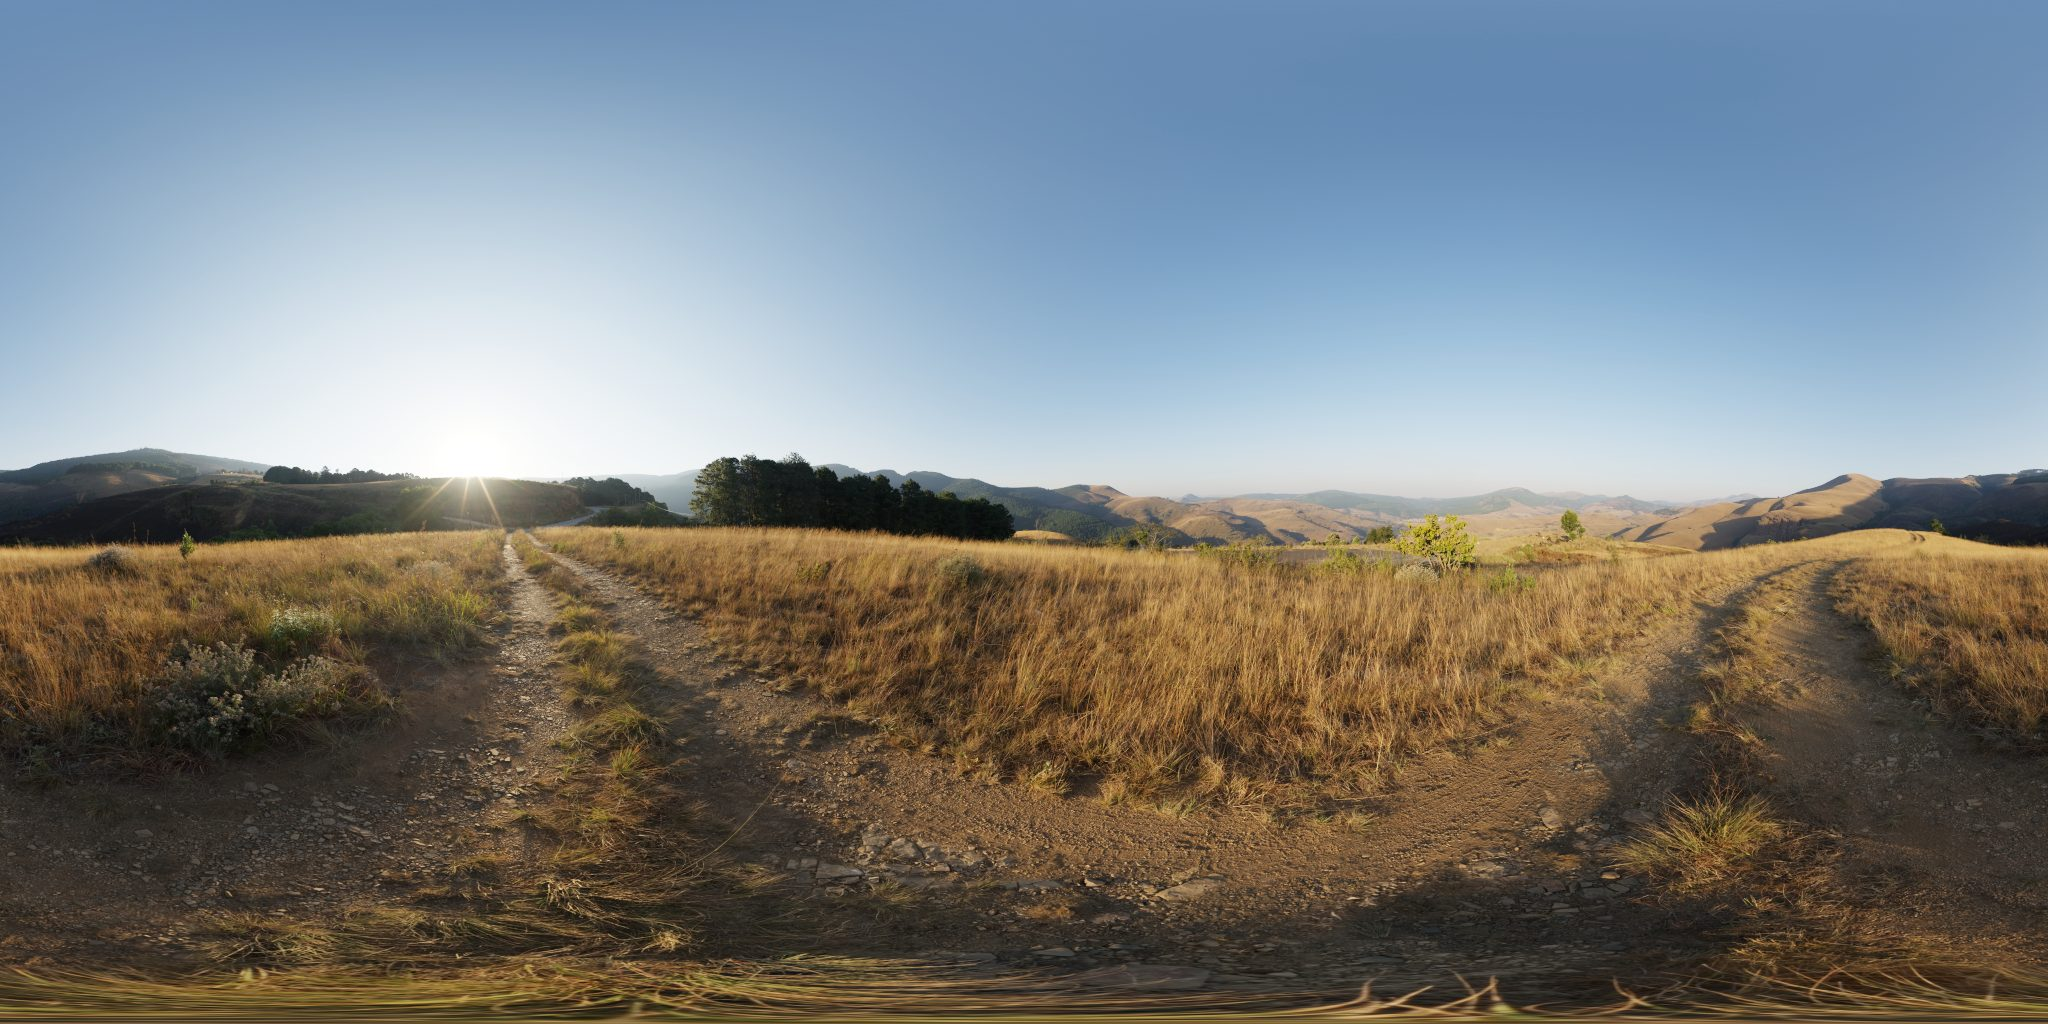
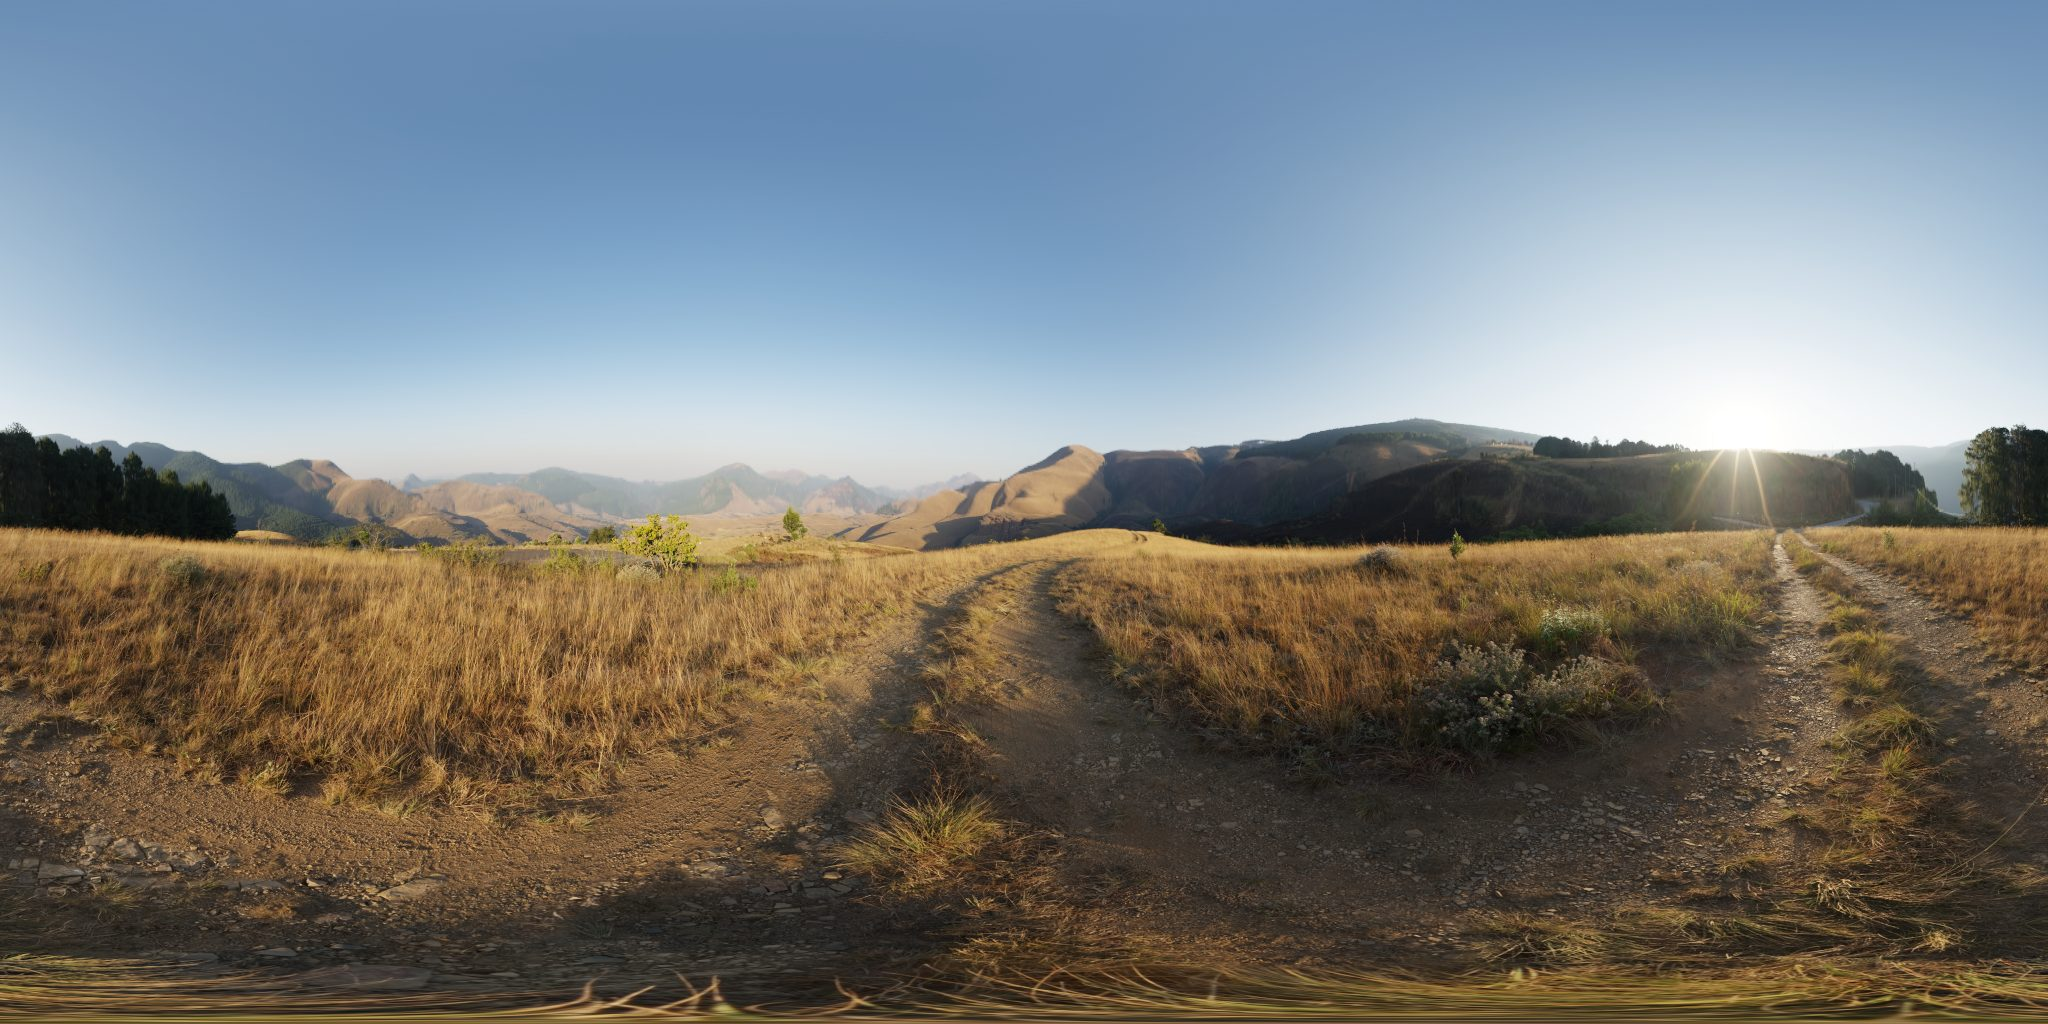
Fondo: sin el sol pintado, panorama girado con la sierra delante y más alta, sin doble tone mapping

diff --git a/src/main.js b/src/main.js
@@ -197,13 +197,19 @@ window.THREE = THREE;
     var mtn = new T.Mesh(new T.CylinderGeometry(300, 300, 36, 64, 1, true), new T.MeshBasicMaterial({ map: mtnTex, transparent: true, side: T.BackSide, fog: false, depthWrite: false }));
     mtn.position.y = GROUND + 14; scene.add(mtn);
 
-    /* real panorama (Poly Haven «Rolling Hills», CC0), pre-rotated so the sun sits ahead at u = 0.23.
+    /* real panorama (Poly Haven «Rolling Hills», CC0), pre-rotated so the mountain range lies ahead and the sun sits
+       behind on the left (u = 0.85), lighting the landscape from the side; the band above the horizon is stretched ×2.4 so the mountains stand taller
+       (herramientas/hdr2jpg.py rolling_hills_2k.hdr rolling_hills.jpg 1.0 2048 0.85 2.4 35).
        Until it loads (or if it fails) the painted sky above stays in place. */
     new T.TextureLoader().load('fondo/rolling_hills.jpg', function (tex) {
       tex.encoding = T.sRGBEncoding;
       tex.mapping = T.EquirectangularReflectionMapping;
-      scene.background = tex;
-      scene.remove(sky); scene.remove(mtn);
+      /* drawn on a sphere instead of scene.background so it skips the renderer's ACES tone mapping:
+         the JPG is already tone-mapped, and mapping it twice washed out the mountains.
+         scale.x = -1 and the half turn make the sphere's UVs match three.js equirect (u = 0.25 straight ahead) */
+      var pano = new T.Mesh(new T.SphereGeometry(650, 64, 32), new T.MeshBasicMaterial({ map: tex, side: T.BackSide, fog: false, depthWrite: false, toneMapped: false }));
+      pano.scale.x = -1; pano.rotation.y = Math.PI; pano.renderOrder = -2; scene.add(pano);
+      scene.remove(sky); scene.remove(mtn); scene.remove(sun);  /* the photo has its own sun */
       scene.fog.color.setHex(HAZE_DAY); scene.fog.near = 60; scene.fog.far = 600;
       ground.material.color.setHex(0xc9c4b4); ground.material.envMapIntensity = 0.3;
       try {
@@ -432,7 +438,7 @@ window.THREE = THREE;
     } catch (e) {}
 
     scene.add(new T.HemisphereLight(0x8aa0d8, 0x2a1a16, 0.6));
-    var sunLight = new T.DirectionalLight(0xff9a60, 1.2); sunLight.position.set(-6, 4, -20); scene.add(sunLight);
+    var sunLight = new T.DirectionalLight(0xff9a60, 1.2); sunLight.position.set(-12, 5, 16);  /* from the photo's sun, behind on the left */ scene.add(sunLight);
     var fill = new T.DirectionalLight(0xa8bcff, 0.9); fill.position.set(1.5, 6, 6); scene.add(fill);
     var dashLight = new T.PointLight(CYAN, 0.5, 0.9); dashLight.position.set(0, GROUND + 1.05, -0.35); scene.add(dashLight);
 

diff --git a/herramientas/hdr2jpg.py b/herramientas/hdr2jpg.py
@@ -1,4 +1,7 @@
-"""Radiance .hdr (RLE RGBE) -> tonemapped sRGB JPG.  usage: hdr2jpg.py in.hdr out.jpg [exposure] [width]"""
+"""Radiance .hdr (RLE RGBE) -> tonemapped sRGB JPG.
+usage: hdr2jpg.py in.hdr out.jpg [exposure] [width] [sun_u] [stretch] [top_deg]
+  sun_u    rotate so the brightest pixel (the sun) lands at this u (three.js: 0.25 = ahead, -Z)
+  stretch  magnify the band just above the horizon by this factor (taller mountains), easing out by top_deg"""
 import sys
 import numpy as np
 from PIL import Image
@@ -52,6 +55,20 @@ if sun_u is not None:
     W = lin.shape[1]
     lin = np.roll(lin, int(round(sun_u * W)) - sx, axis=1)
     print('sun at px', sx, sy, '-> u', sun_u, ' v', round(sy / lin.shape[0], 3))
+# optional vertical stretch of the band just above the horizon (makes distant mountains taller, leaves the zenith alone):
+# within [0, top] degrees of elevation the picture is magnified by `stretch` at the horizon, easing back to 1 at `top`.
+stretch = float(sys.argv[6]) if len(sys.argv) > 6 else 1.0
+top = float(sys.argv[7]) if len(sys.argv) > 7 else 40.0
+if stretch != 1.0:
+    H = lin.shape[0]
+    e_out = (0.5 - (np.arange(H) + 0.5) / H) * 180.0          # elevation of each output row, degrees
+    t = np.clip(e_out / top, 0, 1)
+    s = t * t * (3 - 2 * t)                                    # 0 at the horizon -> 1 at `top`
+    e_src = np.where((e_out > 0) & (e_out < top), e_out * (1 / stretch + (1 - 1 / stretch) * s), e_out)
+    y_src = np.clip((0.5 - e_src / 180.0) * H - 0.5, 0, H - 1)
+    y0 = np.floor(y_src).astype(int); y1 = np.minimum(y0 + 1, H - 1); f = (y_src - y0)[:, None, None]
+    lin = lin[y0] * (1 - f) + lin[y1] * f
+    print('stretch', stretch, 'up to', top, 'deg')
 rgb = aces(lin * exposure)
 srgb = np.where(rgb <= 0.0031308, rgb * 12.92, 1.055 * np.power(rgb, 1 / 2.4) - 0.055)
 im = Image.fromarray((srgb * 255 + 0.5).astype(np.uint8))
